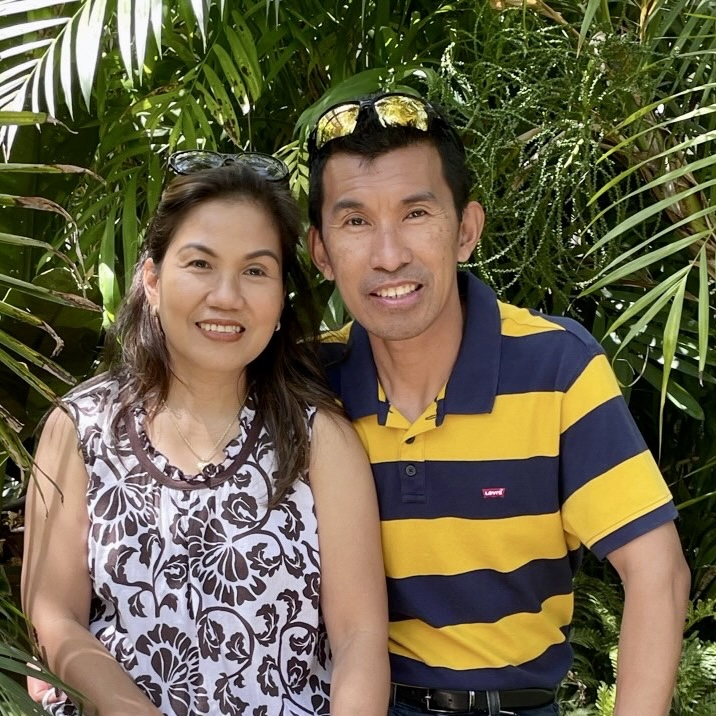
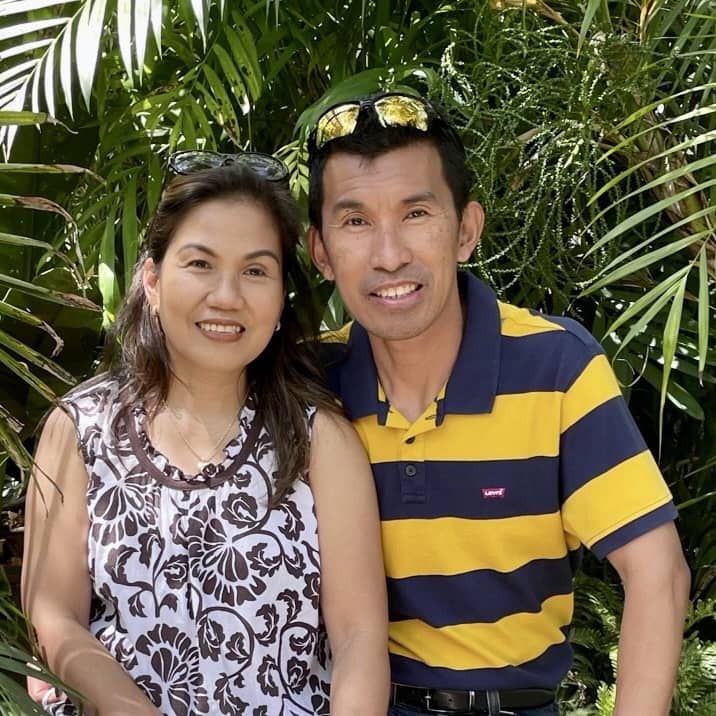
Compressed images for web opt.

Changed region(s): [[0.7682, 0.1844, 0.7989, 0.2458], [0.7989, 0.3073, 0.8296, 0.338], [0.6145, 0.0615, 0.6453, 0.0922]]

diff --git a/index.html b/index.html
@@ -28,7 +28,7 @@
 			  <input type="radio" name="radio-buttons" id="img-1" checked />
 			  <li class="slide-container">
 				<div class="slide-image">
-				  <img alt="shoot1" src="assets/shoot/DSC07887.JPEG">
+				  <img alt="shoot1" src="assets/shoot/DSC07887-small.JPEG">
 				</div>
 				<!-- <div class="carousel-controls">
 				  <label for="img-3" class="prev-slide">
@@ -42,7 +42,7 @@
 			  <input type="radio" name="radio-buttons" id="img-2" />
 			  <li class="slide-container">
 				<div class="slide-image">
-				  <img alt="shoot2" src="assets/shoot/DSC07908.JPEG">
+				  <img alt="shoot2" src="assets/shoot/DSC07908-small.JPEG">
 				</div>
 				<!-- <div class="carousel-controls">
 				  <label for="img-1" class="prev-slide">
@@ -56,7 +56,7 @@
 			  <input type="radio" name="radio-buttons" id="img-3" />
 			  <li class="slide-container">
 				<div class="slide-image">
-				  <img alt="shoot3" src="assets/shoot/DSC07829.JPEG">
+				  <img alt="shoot3" src="assets/shoot/DSC07829-small.JPEG">
 				</div>
 				<!-- <div class="carousel-controls">
 				  <label for="img-2" class="prev-slide">
@@ -220,7 +220,7 @@
 
 				<a id="rsvp"></a> <div class="line-box"><h2>RSVP</h2><hr class="right"></div>
 
-					<p>Please respond by 1 July 2024 using the form below and direct any inquiries to <a class="hyperlink" target="_blank" href="mailto:rsvp@davley2024.wedding">rsvp<span class="digit">@</span>davley2024.wedding</a></p>
+					<p>Please respond by 1 July 2024 using the form below and direct any inquiries to <a class="hyperlink" target="_blank" href="mailto:annedavidpapa@gmail.com">annedavidpapa<span class="digit">@</span>gmail.com</a></p>
 
 					<div class="button-container">
 						<form target="_blank">
